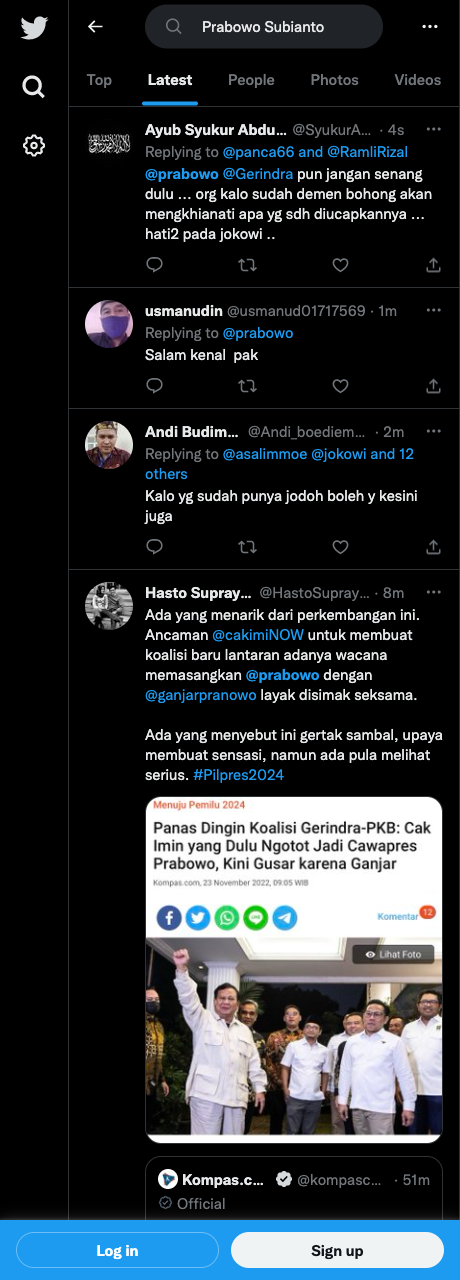
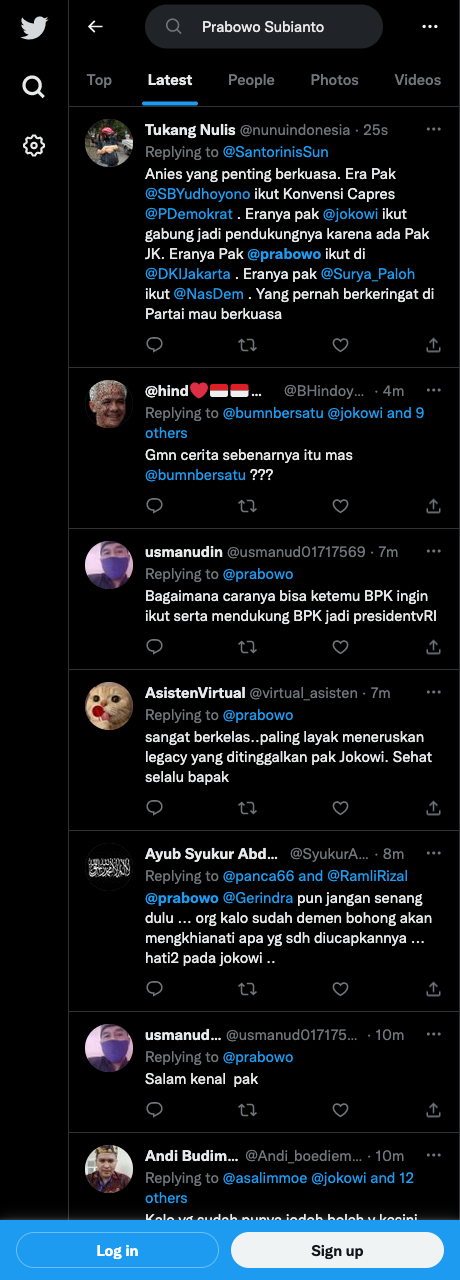
fix twitter

Changed region(s): [[0.1826, 0.0938, 0.9739, 0.9688]]

diff --git a/lib_perintah/tweeter.js b/lib_perintah/tweeter.js
@@ -28,15 +28,16 @@ async function main(keyword) {
     }
 
     console.log("membuka target")
-    await page.goto(`https://mobile.twitter.com/search?q=${keyword.name
+    await page.goto(`https://twitter.com/search?q=${keyword.name
         }&src=typeahead_click&f=live`, {
         waitUntil: "networkidle2",
         timeout: 0
     });
 
-    console.log("menyimpan script")
+    console.log("menyimpan image")
     await page.screenshot({
         path: "../public/img/twitter.png",
+        fullPage: true
         
     })
 
